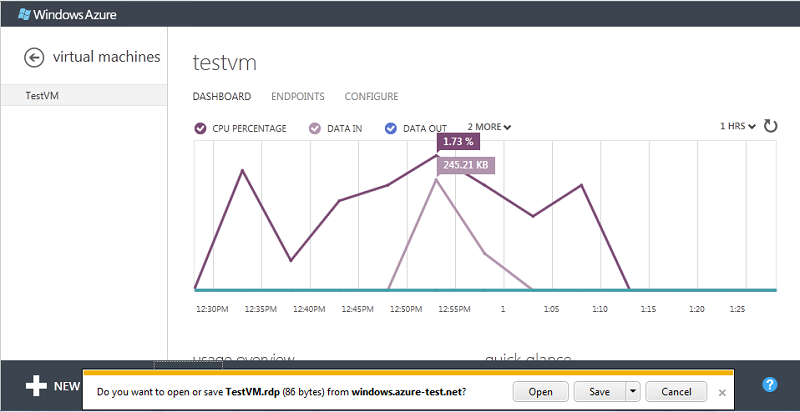
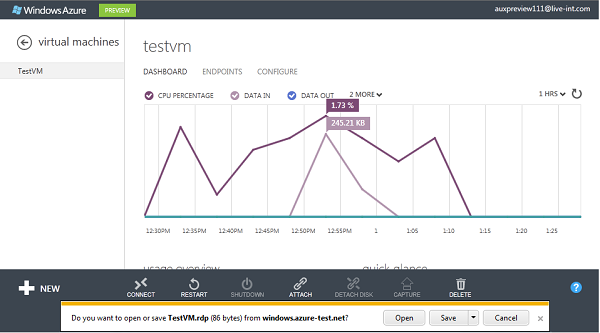
Updated size of screenshots, portal url, and added notes on size, evaluation

diff --git a/ITPro/Windows/Tutorials/InstallingASQLServerVirtualMachine.md b/ITPro/Windows/Tutorials/InstallingASQLServerVirtualMachine.md
@@ -1,22 +1,30 @@
-# Deploying a SQL Server Virtual Machine on Windows Azure #
+# Provisioning a SQL Server Virtual Machine on Windows Azure #
 
-The Windows Azure virtual machine gallery provides Windows Azure virtual machine images of Microsoft Windows Server 2008 R2, Service Pack 1 (64-bit) with a complete 64-bit installation of SQL Server. You can select one of the virtual machine images from the Windows Azure gallery and with a few clicks you can deploy the virtual machine to your Windows Azure environment.
+The Windows Azure virtual machine gallery provides Windows Azure virtual machine images of Microsoft Windows Server 2008 R2, Service Pack 1 (64-bit) with a complete 64-bit installation of SQL Server. You can select one of the virtual machine images from the Windows Azure gallery and with a few clicks you can provision the virtual machine to your Windows Azure environment.
 
-In this tutorial you will learn:
+To upload your own virtual machine image instead of using an image from the gallery, see [Creating and Uploading a Virtual Hard Drive that Contains the Windows Server Operating System](http://go.microsoft.com/fwlink/?LinkId=252920).
 
-- How to use the Windows Azure Management Portal to select and install a virtual machine from the gallery.
-- How to connect to the virtual machine using Remote Desktop.
-- How to connect to SQL Server on the virtual machine using SQL Server Management Studio or your application.
+In this tutorial you will:
 
-## Connect to the Windows Azure Management Portal and Provision a Virtual Machine Image ##
+- [Connect to the Windows Azure Management Portal and Provision a Virtual Machine from the Gallery](#Provision)
+- [Open the Virtual Machine Using Remote Desktop and Complete Setup](#RemoteDesktop)
+- [Complete Configuration Steps to Connect to the Virtual Machine Using SQL Server Management Studio on Another Computer](#SSMS)
+- [Optional Next Steps](#Optional)
 
-1. Login to the Windows Azure Management Portal [http://windows.azure.com](http://windows.azure.com) using your account. (If you do not have a Windows Azure account, visit [Windows Azure 3 Month free trial](http://www.windowsazure.com/en-us/pricing/free-trial/)).
+<h2 id="Provision">Connect to the Windows Azure Management Portal and Provision a Virtual Machine from the Gallery</h2>
+
+1. Login to the Windows Azure Management Portal [https://manage.windowsazure.com](https://manage.windowsazure.com) using your account. (If you do not have a Windows Azure account, visit [Windows Azure 3 Month free trial](http://www.windowsazure.com/en-us/pricing/free-trial/)).
 	![Connect to Portal] [Image1]
 2. On the Windows Azure Management Portal, at the bottom left of the web page, click **+NEW**, click **VIRTUAL MACHINE**, and then click **FROM GALLERY**.
 
 	![Open the gallery] [Image2]
 
-3. Select a virtual machine image containing SQL Server, and then click the next arrow at the bottom right of the page. (If you want to upload your own virtual machine image instead of using an image from the gallery, see [Uploading VHDs for a VM Role in Windows Azure](http://msdn.microsoft.com/en-us/library/windowsazure/gg671909.aspx), [How to Upload a VHD to Windows Azure](http://msdn.microsoft.com/en-us/library/windowsazure/gg465385.aspx), and [CSUpload Command-Line Tool](http://msdn.microsoft.com/en-us/library/windowsazure/gg466228.aspx).) For information about licensing, see [License Mobility Through Software Assurance](http://www.microsoft.com/licensing/software-assurance/license-mobility.aspx).
+3. Select a virtual machine image containing SQL Server, and then click the next arrow at the bottom right of the page. For information about licensing, see [License Mobility Through Software Assurance](http://www.microsoft.com/licensing/software-assurance/license-mobility.aspx).
+
+    <div class="dev-callout"> 
+    <b>Note</b> 
+    <p>The evaluation edition is available for testing but cannot be upgraded to a per-hour paid edition.</p> 
+    </div>
 
 	![Open the gallery] [Image3]
 
@@ -26,11 +34,23 @@ In this tutorial you will learn:
 - Leave the **NEW USER NAME** box as Administrator.
 - In the **NEW PASSWORD** box, type a strong password. [Strong Passwords](http://msdn.microsoft.com/en-us/library/ms161962.aspx)
 - In the **CONFIRM PASSWORD** box, retype the password.
-- Select the appropriate **SIZE** from the drop down list. Medium is the smallest size recommended for production workloads. 
+- Select the appropriate **SIZE** from the drop down list. 
+
+    <div class="dev-callout"> 
+    <b>Note</b> 
+    <p>Considerations related to size:
+- Medium is the smallest size recommended for production workloads. 
+- Select Large or Extra Large when using SQL Server Enterprise Edition.
+- The size selected limits the number of disks you can configure. (Extra Small <= 1, Small <= 2, Medium <= 4, Large <= 8, Extra Large <= 16)
+    </p> 
+    </div>
 
    Click the next arrow in the bottom left (->) to continue.
 
 	![VM Configuration] [Image4]
+
+
+
 5. On **VM Mode** page, provide the following information:
 - Select **Standalone Virtual Machine**.
 - In the **DNS NAME** box, provide the first portion of the DNS name, so that it completes a name in the format **TESTNAME.cloudapp.net**
@@ -52,7 +72,7 @@ In this tutorial you will learn:
 
 	![VM Options] [Image7]
 
-## Open the Virtual Machine Using Remote Desktop and Complete Setup ##
+<h2 id="RemoteDesktop">Open the Virtual Machine Using Remote Desktop and Complete Setup</h2>
 
 1. On the Windows Azure Management Portal, select your virtual machine, and select the DASHBOARD page.
 
@@ -68,7 +88,7 @@ In this tutorial you will learn:
 
 Once you are connected to the virtual machine with Windows Remote Desktop, the virtual machine works much like any other computer. Connect to the default instance of SQL Server with SQL Server Management Studio (running on the virtual machine) in the normal way. If you need additional training on connecting to the Database Engine, see [Tutorial: Getting Started with the Database Engine](http://msdn.microsoft.com/en-us/library/ms345318.aspx).
 
-## Connecting to the Virtual Machine Using SQL Server Management Studio or Your Application ##
+<h2 id="SSMS">Complete Configuration Steps to Connect to the Virtual Machine Using SQL Server Management Studio on Another Computer</h2>
 
 Before you can connect to the instance of SQL Server from the internet, the following tasks must be completed:
 
@@ -273,7 +293,7 @@ If you can connect to an instance of SQL Server running on a Windows Azure virtu
 
 - [How to Troubleshoot Connecting to the SQL Server Database Engine](http://social.technet.microsoft.com/wiki/contents/articles/how-to-troubleshoot-connecting-to-the-sql-server-database-engine.aspx)
 
-## Optional Next Steps ##
+<h2 id="Optional">Optional Next Steps</h2>
 
 ### Migrating an Existing Database ###
 
@@ -291,11 +311,17 @@ Small files (database backups or DACPAC files) can be copied to the virtual mach
 
 - Upload the file to BLOB storage in the same datacenter as the virtual machine, and then RDP to the virtual machine and download the file from BLOB storage. For more information, see [Windows Azure Storage](http://www.windowsazure.com/en-us/home/features/storage/).
 
+- Transfer files to a file system share after configuring a Windows Azure Virtual Network. For more information, see [Overview of Windows Azure Virtual Network](http://go.microsoft.com/fwlink/?LinkId=251117). 
+
 - Transfer the file using FTP. There are multiple steps to using FTP, including configuring IIS, configuring an account in FTP, configuring a certificate for SSL, etc. For more information about FTP, see the Windows documentation for the [FTP Publishing Service](http://www.iis.net/download/FTP).
 
 - Use a web browser to download a database from the Internet, such as downloading Adventure Works from codeplex [Download an AdventureWorks database](http://msftdbprodsamples.codeplex.com/).
 
 For more information about migrating a database to the Windows Azure Platform, see [Guide to Migrating Existing applications and Databases to Windows Azure Platform](http://go.microsoft.com/fwlink/?LinkId=249158).
+
+### Turn Off Write Caching ###
+
+For best performance, the Database Engine requires write caching to be OFF for both data and operating system disks. OFF is the default setting for data disks, for both read and write operations. However, ON is the default write caching setting for the operating system disk. New users who are evaluating performance on a simple single disk system should configure write caching to be OFF for the operating system disk. For instructions on configuring write caching, see How to Use PowerShell for Windows Azure.
 
 ### Creating Database Users ###
 
